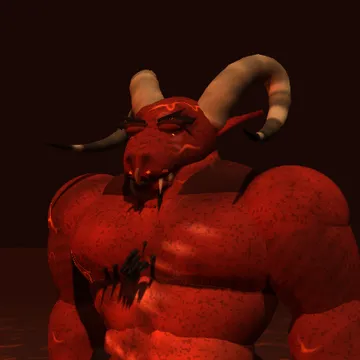
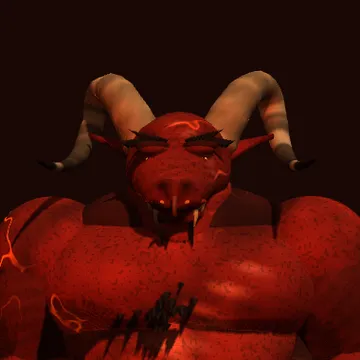
Обучение: настоящий фейспалм, «встаньте напротив камеры» до пояса, микрофон не слышит диктора, диктор тише
Claude-Session: https://claude.ai/code/session_01GXUr6fdMTNaofVnpKrdDAX

diff --git a/src/game/Tutorial.js b/src/game/Tutorial.js
@@ -34,6 +34,7 @@ export const TUT = {
     ZOMBIE_HP_FLOOR: 4, // the hero below this in the fight — the stage again
     WIZ_SITE: 'tutorial-wizard',
     MARKET: { id: 'tutorial-market', at: { x: 20, z: 0 }, coins: 150 }, // (the stall right of the hero: its buyer's place ~(20, 3.5))
+    VOLUME: 0.7, // the narrator's loudness (the author: 30 % quieter)
     VOICE_WAIT: 25, // s a piece waits for the voices to load (the first start) — then it is only written
     SAY_MAX: 110, // chars: a longer line is told in pieces (the voice gets lost in long ones — the author)
 };
@@ -159,10 +160,10 @@ export class Tutorial {
         const P = { show: 'pocket', point: 'pocket' }; // (the pockets lit, the arrow at the pocket)
         return [
             { title: STAGE_TITLES[0], steps: [
-                { ...say('Добро пожаловать! Это обучение. Здесь вы научитесь всему, что нужно в игре. Слушайте и делайте, что я говорю. Не торопитесь.'), ...wait(8) },
-                ask('Встаньте перед камерой так, чтобы она видела вас хотя бы по пояс. Камера должна стоять на уровне груди, прямо перед вами.', () => T._seenFor('body', 2.5), { hint: 'Камера вас пока не видит. Отойдите на шаг-два назад и встаньте прямо перед ней. Проверьте, что камера включена.' }),
+                // (the author: «не торопитесь, встаньте напротив камеры» — and on at once if he already stands there: after the words)
+                ask('Добро пожаловать! Это обучение. Здесь вы научитесь всему, что нужно в игре. Слушайте и делайте, что я говорю. Не торопитесь. Встаньте напротив камеры, чтобы она видела вас хотя бы по пояс.', () => T._seenFor('body', 1.2) && !T.talking, { hint: 'Камера пока не видит вас до пояса. Отойдите на шаг-два назад, чтобы в кадре были плечи и пояс. Камера — на уровне груди, прямо перед вами. Проверьте, что она включена.' }),
                 ask('Теперь поднимите обе руки перед собой, ладонями к камере, и подержите их так.', () => T._handsFor(3), { hint: 'Я плохо вижу ваши руки. Чаще всего мешает свет. Включите яркий свет: пусть он падает на вас спереди, а не из окна за спиной.', check: () => T._lightCheck() }),
-                ask('Хорошо видно! Теперь проверим микрофон. Скажите вслух: «Меня хорошо слышно».', () => T.heard.length > 0, { hint: 'Я вас не слышу. Проверьте, что микрофон включён и выбран в настройках. Скажите чуть громче.' }),
+                ask('Хорошо видно! Теперь проверим микрофон. Скажите вслух: «Меня хорошо слышно».', () => T.heard.some((h) => /слыш|слых/i.test(h)) || T.heard.length >= 2, { hint: 'Я вас не слышу. Проверьте, что микрофон включён и выбран в настройках. Скажите чуть громче.' }),
                 { ...say('Отлично: и видно, и слышно. Играйте при хорошем свете — тогда игра лучше понимает ваши руки.'), ...wait(6) },
             ] },
             { title: STAGE_TITLES[1], steps: [
@@ -255,8 +256,15 @@ export class Tutorial {
     // ------------------------------------------------------------------ checks
     _pose() { return this.game.currentPose || null; }
     _results() { return this.game.poseService?.lastResults || null; }
+    /** The camera sees the player at least to the waist: both shoulders and both hips in the picture, clearly (the author: «хотя бы до пояса, не просто так видеть»). */
+    _toWaist() {
+        const lm = this._results()?.poseLandmarks;
+        if (!lm || lm.length < 25) return false;
+        const vis = (p) => !!p && (p.visibility == null || p.visibility >= 0.6) && p.x > 0.02 && p.x < 0.98 && p.y > 0.02 && p.y < 0.98;
+        return [11, 12, 23, 24].every((i) => vis(lm[i]));
+    }
     _seenFor(what, s) {
-        const r = this._results(), ok = !!(r?.poseLandmarks?.length || this._pose());
+        const ok = what === 'body' ? this._toWaist() : !!(this._results()?.poseLandmarks?.length || this._pose());
         this.ctx.seen = ok ? (this.ctx.seen || 0) + this._dt : 0;
         return this.ctx.seen >= s;
     }
@@ -434,6 +442,8 @@ export class Tutorial {
     /** A phrase heard (final): true if it was the tutorial's own (not a spell). */
     hear(text) {
         if (this.done) return false;
+        // (the microphone hears the narrator himself — «меня хорошо слышно» said by him passed the check: his time and a moment after are not the player's)
+        if (this.talking || this._clockNow() - (this._quietAt ?? -9) < 0.8) return false;
         this.heard.push(text);
         const st = this._cur();
         if (st?.hear) return !!st.hear(text);
@@ -566,9 +576,9 @@ export class Tutorial {
         let ok = false;
         try {
             ok = sp.say(piece, {
-                voiceKey: TUT.VOICE_KEY, role: 'narrator', female: true, volume: 1, reply: true,
+                voiceKey: TUT.VOICE_KEY, role: 'narrator', female: true, volume: TUT.VOLUME, reply: true,
                 onStart: () => { if (tok === this._tok && !this._shown) { this._shown = true; this._subText(piece); } },
-                onEnd: () => { if (tok !== this._tok) return; this._talking = false; if (!this._shown) { this._shown = true; this._subText(piece); } this._pump(); },
+                onEnd: () => { if (tok !== this._tok) return; this._talking = false; this._quietAt = this._clockNow(); if (!this._shown) { this._shown = true; this._subText(piece); } this._pump(); },
             });
         } catch { ok = false; }
         if (!ok && this._talking && tok === this._tok) { this._talking = false; this._q.unshift(piece); this._waitFrom = now - TUT.VOICE_WAIT; this._pump(); } // (no voice for it: only written)

diff --git a/tests/unit/tutorial.test.js b/tests/unit/tutorial.test.js
@@ -7,6 +7,17 @@ import { TUTORIAL, tutorialHeight, generateTutorialChunk, onMeadow } from '../..
 import { Tutorial, STAGE_TITLES, heardHand, splitSay } from '../../src/game/Tutorial.js';
 import { BLOCK } from '../../src/world/Terrain.js';
 
+test('«стоит напротив камеры» — only seen to the waist: shoulders and hips', () => {
+    const { g } = fake();
+    const T = new Tutorial(g);
+    const lm = g.poseService.lastResults.poseLandmarks;
+    assert.equal(T._toWaist(), true);
+    lm[23] = { x: 0.4, y: 1.2, visibility: 0.9 }; // (the hips under the picture: only the head and shoulders seen)
+    assert.equal(T._toWaist(), false);
+    lm[23] = { x: 0.4, y: 0.8, visibility: 0.2 };
+    assert.equal(T._toWaist(), false);
+});
+
 test('the land: a flat meadow, the hill before the hero, cliffs all round — no way out', () => {
     assert.equal(tutorialHeight(TUTORIAL.SPAWN.x, TUTORIAL.SPAWN.z), TUTORIAL.G);
     assert.ok(tutorialHeight(TUTORIAL.HILL.x, TUTORIAL.HILL.z) >= TUTORIAL.G + TUTORIAL.HILL.h - 1, 'the hill');
@@ -43,7 +54,7 @@ function fake() {
     const held = { left: null, right: null };
     const g = {
         localId: 'me', dom: 'right', off: 'left', settings: {}, smoothHead: { yaw: 0, pitch: 0 }, currentPose: { bodyRotation: 0 },
-        poseService: { lastResults: { poseLandmarks: [1], leftHandLandmarks: [1], rightHandLandmarks: [1] } },
+        poseService: { lastResults: { poseLandmarks: Array.from({ length: 33 }, () => ({ x: 0.5, y: 0.5, visibility: 0.9 })), leftHandLandmarks: [1], rightHandLandmarks: [1] } },
         character: { group: new THREE.Group(), velocity: { x: 0, z: 0 }, isRunning: false },
         terrain: { data: { get: (x, L, z) => blocks.get(`${x},${L},${z}`) ?? (L <= tutorialHeight(x, z) ? BLOCK.STONE : 0) } },
         items: {
@@ -157,7 +168,8 @@ test('the narrator: the first line waits for the voices to load (it was lost), t
     assert.match(said[0], /^Добро пожаловать/, 'the very first line is said, not skipped');
     sp.cur.onStart(); sp.cur.onEnd();
     assert.equal(said.length, 2, 'the next piece only after the first ended');
-    sp.cur.onStart(); sp.cur.onEnd();
+    for (let n = 0; n < 6 && T.talking; n++) { sp.cur.onStart(); sp.cur.onEnd(); }
+    g.poseService.lastResults.poseLandmarks = []; // (not seen yet: the step waits for him — its time runs)
     T.update(0.1);
     assert.ok(T.t > 0 && !T.talking, 'the step\'s time runs once the words are said');
 });

diff --git a/src/game/DiabolosActs.js b/src/game/DiabolosActs.js
@@ -205,8 +205,9 @@ export const ACTS = {
         face: (k, t) => ({ lid: 0.08 + 0.5 * (1 - env(k, 0.25, 0.8)), brow: 0.6 * env(k), browL: 0.75 * env(k), ear: -0.8 * env(k), nostril: 0.4 + 0.5 * env(k, 0.5, 0.7), snarl: 0.15 }),
         body: (k, t) => {
             const up = env(k, 0.28, 0.82);
-            return { head: { pitch: -0.36 * up, yaw: 0.26 * up + 0.08 * Math.sin(t * 2.6) * env(k, 0.4, 0.8), roll: 0.14 * up }, // (the head shakes a little into the palm) inhale: 0.5 * env(k, 0.5, 0.65), lean: 0.15 * up,
-                armR: { rot: { sx: 1.48 * up, ab: -0.29 * up, tw: 0.68 * up, el: 1.6 * up, ha: 0.68 * up } } }; // (the palm on the brow — measured on the model: more and it goes past the head)
+            // (the head bows into the palm, shaking a little)
+            return { head: { pitch: -0.5 * up, yaw: 0.25 * up + 0.06 * Math.sin(t * 2.6) * env(k, 0.4, 0.8), roll: 0.2 * up }, inhale: 0.5 * env(k, 0.5, 0.65), lean: 0.15 * up,
+                armR: { rot: { sx: 2.9 * up, ab: -0.6 * up, tw: 2.2 * up, el: 1.4 * up, ha: 0.9 * up } } }; // (the forearm across, the palm over the eyes — found on the model: a bent elbow only reaches the temple)
         },
         snd: [{ t: 0.45, k: 'sigh' }], fx: [{ t: 0.6, k: 'nostrilSmoke' }],
     },

diff --git a/docs/rules/tutorial.md b/docs/rules/tutorial.md
@@ -47,3 +47,5 @@
 - Миникарта в обучении скрыта (`body.tutorial-on`), показывается только на шаге интерфейса со стрелкой («мы её спрячем, чтобы не мешала»).
 - Места жителей на карте без замков: `CastleLife.index` в обучении — пустой (`NO_SITES`), «свои» места (`extra`: прилавок, волшебник) просыпаются и живут. Волшебник — место вида `wander` (его боевой ум — `WizardLife.crowd`). Проверка в игре: `node tools/shot.mjs tutorial-live --mode tutorial`.
 - Голос не загрузился за 25 с — дальше фразы только текстом, без ожидания на каждой.
+- Первый шаг (автор 07.11): приветствие кончается «Не торопитесь. Встаньте напротив камеры…»; дальше — как только камера видит игрока ДО ПОЯСА (оба плеча и оба бедра в кадре, `_toWaist`) и диктор договорил. Микрофон: засчитывается фраза со «слыш…» (или две любые), и не во время слов диктора (+0,8 с) — иначе микрофон слышал самого диктора. Диктор на 30 % тише (`TUT.VOLUME` 0,7).
+- Фейспалм Дьяволоса: предплечье поперёк, ладонь на глазах (`facepalm` в `DiabolosActs.js`; согнутый локоть доставал только до виска — найдено на модели).
